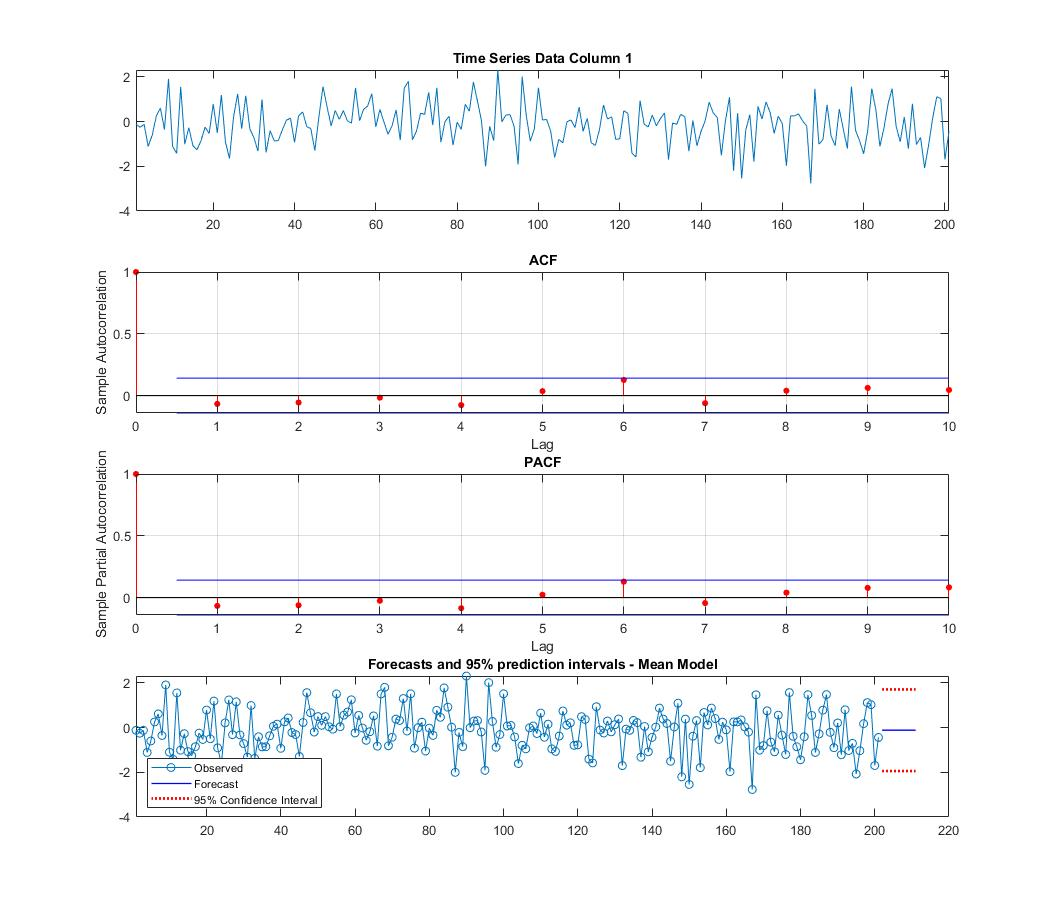
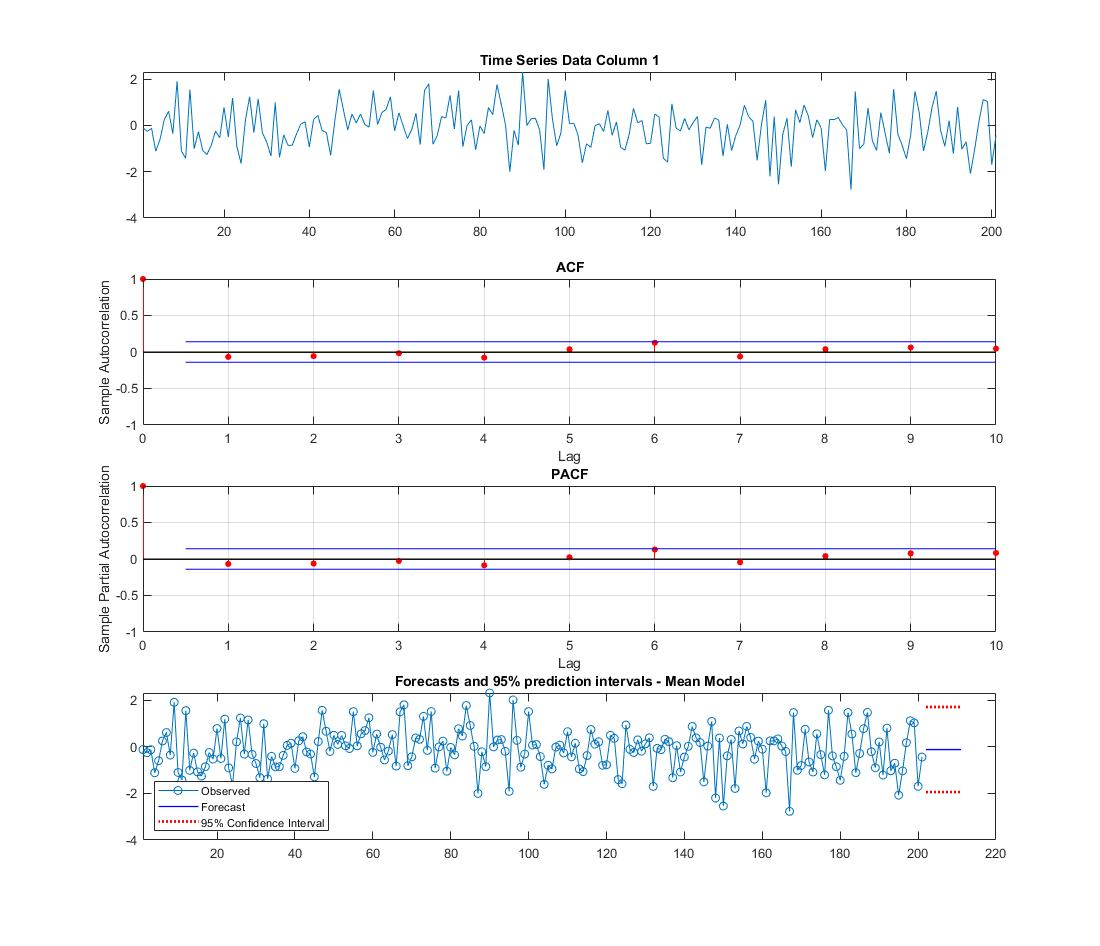
fixed type

diff --git a/main.m b/main.m
@@ -19,10 +19,12 @@ title('Time Series Data Column 1')
 
 subplot(4,1,2)
 autocorr(y, 10)
+ylim([-1,1])
 title('ACF')
 
 subplot(4,1,3)
 parcorr(y,10);
+ylim([-1,1])
 title('PACF')
 
 % gessing parameters - based on model
